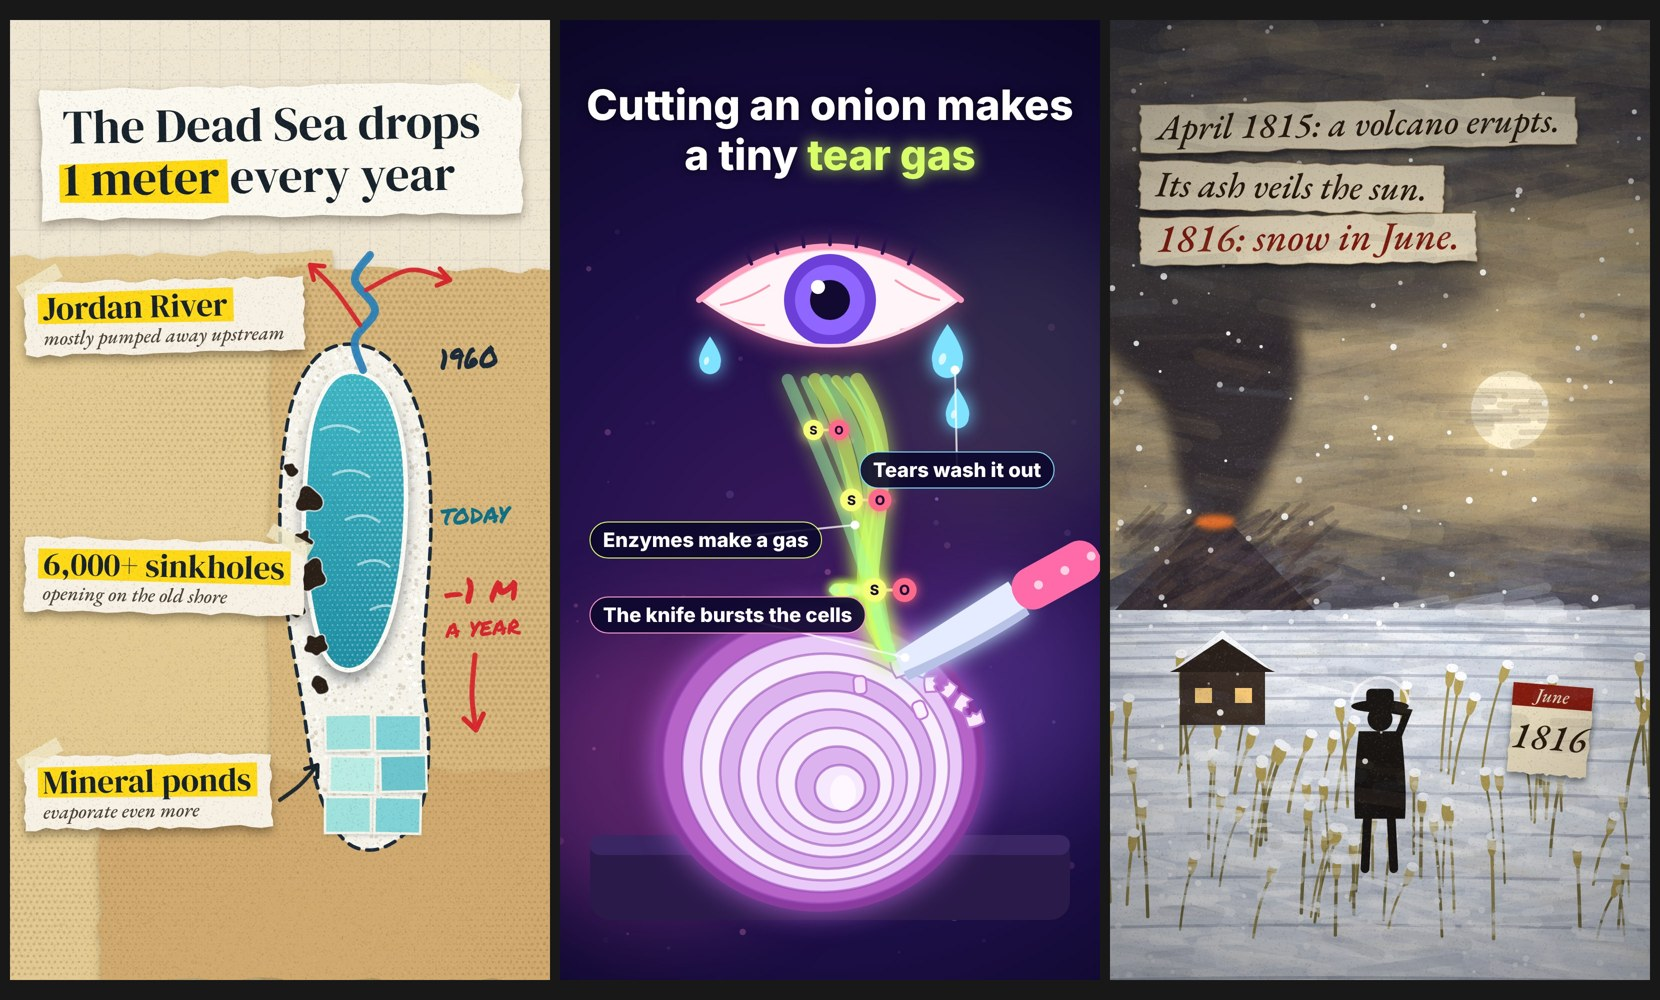
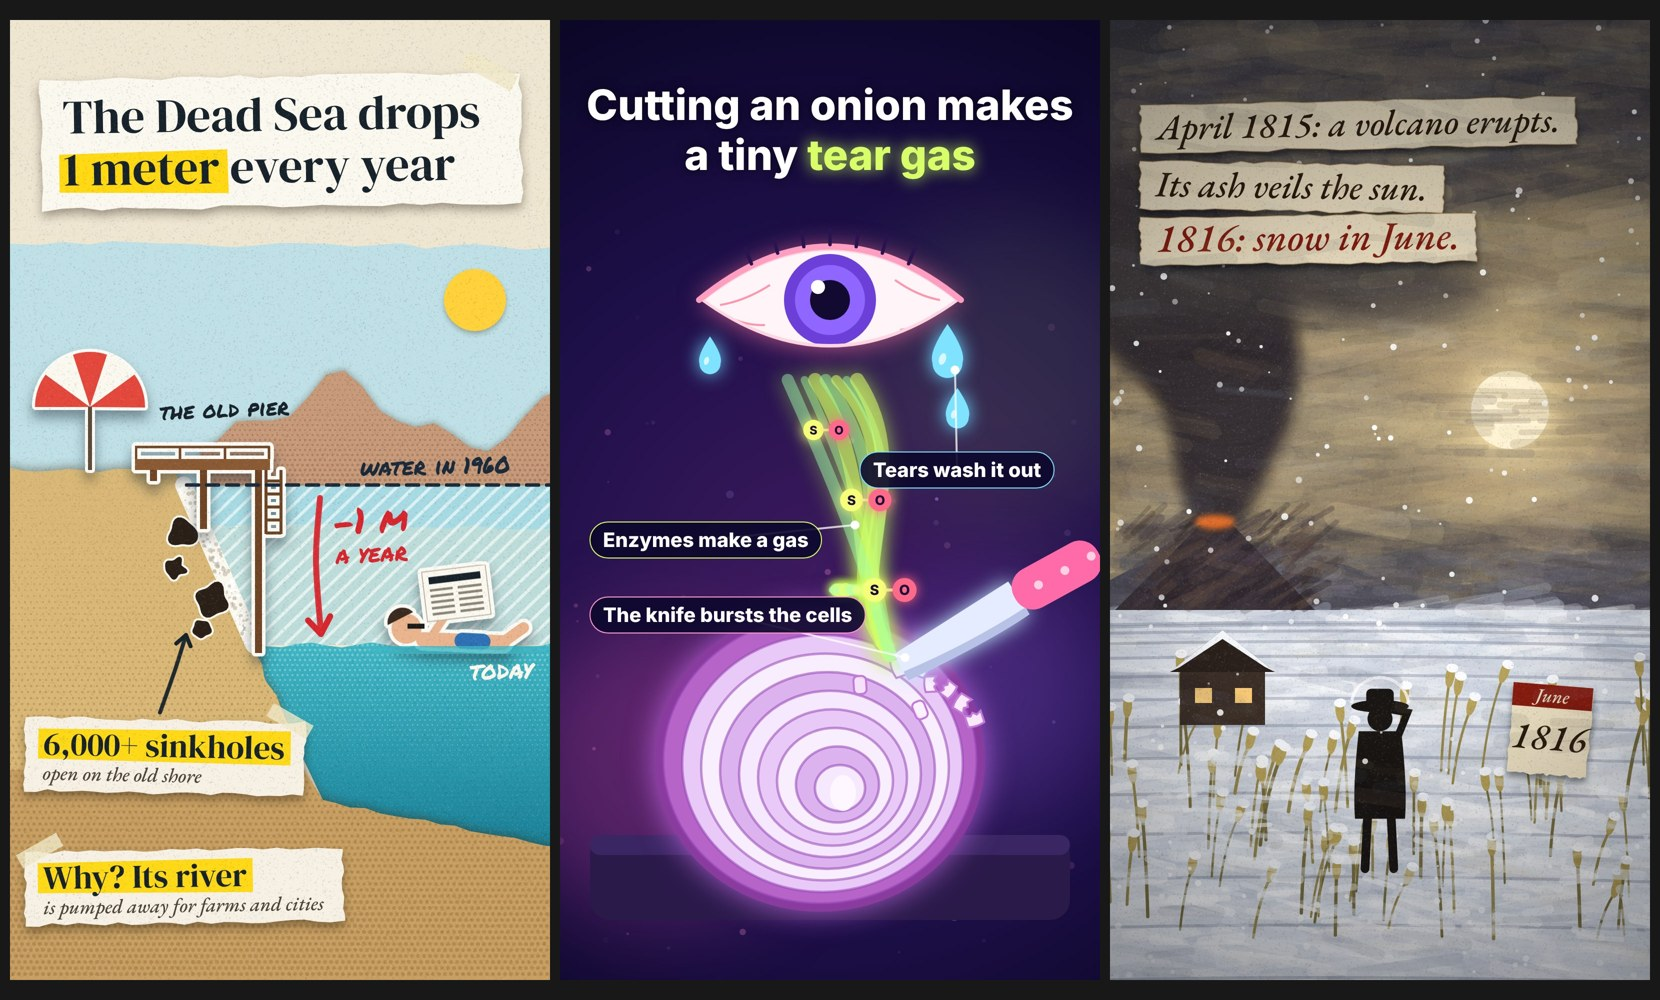
styles37: Dead Sea concept v2 (side view: old pier, 1960 water line, floating reader)
Claude-Session: https://claude.ai/code/session_011mgQaLTG1TJGbDvcfpY3ZX

Changed region(s): [[0.0, 0.062, 0.338, 0.992]]

diff --git a/hf/videos/styles37/concept/paper_deadsea.html b/hf/videos/styles37/concept/paper_deadsea.html
@@ -3,51 +3,72 @@
 @font-face{font-family:'EB Garamond';font-weight:500;font-style:italic;src:url(eb-garamond-latin-500-italic.woff2)}
 @font-face{font-family:'Permanent Marker';src:url(permanent-marker-latin-400-normal.woff2)}
 html,body{margin:0;background:#000}canvas{display:block}</style><script src="common.js"></script></head><body><canvas id="c" width="1080" height="1920"></canvas><script id="main" type="text/plain">
-// styles37 concept: /paper-collage why the Dead Sea is disappearing (Vox-like paper collage look of styles19/28/33; own map drawing,
-// simplified shape, no copied map). Facts (USGS/EcoPeace/GSI, BBC, Britannica): the surface drops about 1 m a year; most of the
-// Jordan River's water is taken upstream for farms and cities; mineral evaporation ponds in the south basin add to the loss;
-// thousands of sinkholes (6,000+) have opened along the retreating shore. Shapes are schematic.
+// styles37 concept v2: /paper-collage why the Dead Sea is disappearing. SIDE VIEW so it reads at first glance (Jan: the map was not
+// clear): a floating bather with a newspaper (the Dead Sea icon), a beach pier left high and dry, the 1960 water line far above today's.
+// Facts (USGS/EcoPeace/GSI, BBC, Britannica): the surface drops about 1 m a year; most of the Jordan River's water is taken upstream
+// for farms and cities; 6,000+ sinkholes have opened on the exposed shore. Schematic, own drawing.
 const g=document.getElementById('c').getContext('2d'), MK="'Permanent Marker',cursive";
-const DX=140;
-const TODAY=[[520,700],[600,720],[640,820],[650,950],[640,1100],[610,1230],[560,1300],[500,1290],[470,1200],[450,1050],[455,900],[470,780]].map(([x,y])=>[x+DX,y]);
-const OLD=[[500,640],[620,660],[690,800],[705,980],[695,1150],[682,1300],[702,1450],[684,1600],[600,1668],[520,1648],[466,1520],[448,1380],[418,1220],[398,1050],[402,880],[428,730]].map(([x,y])=>[x+DX,y]);
-function smooth(p,pts){const n=pts.length;p.beginPath();const m=(a,b)=>[(a[0]+b[0])/2,(a[1]+b[1])/2];let s=m(pts[n-1],pts[0]);p.moveTo(s[0],s[1]);for(let i=0;i<n;i++){const q=m(pts[i],pts[(i+1)%n]);p.quadraticCurveTo(pts[i][0],pts[i][1],q[0],q[1]);}p.closePath();}
+const BANK=900, OLD=930, NOW=1250, SX0=330, SX1=620, SY1=1560; // bank top, old level, today's level, slope
+const slopeX=(y)=>SX0+(SX1-SX0)*(y-BANK)/(SY1-BANK);
 const paper=off(1080,1920,(p,w,h)=>{p.fillStyle='#efe6d2';p.fillRect(0,0,w,h);const R=R0(4);
   for(let i=0;i<9000;i++){p.strokeStyle='rgba(120,95,60,'+(R()*.08)+')';p.lineWidth=1;const x=R()*w,y=R()*h,a=R()*6.28,l=4+R()*14;p.beginPath();p.moveTo(x,y);p.lineTo(x+Math.cos(a)*l,y+Math.sin(a)*l);p.stroke();}
-  p.strokeStyle='rgba(90,120,150,.10)';p.lineWidth=2;for(let x=0;x<w;x+=60){p.beginPath();p.moveTo(x,0);p.lineTo(x,h);p.stroke();}for(let y=0;y<h;y+=60){p.beginPath();p.moveTo(0,y);p.lineTo(w,y);p.stroke();}});
-// desert land: big torn paper pieces with halftone shading
-const land=off(1080,1920,(p)=>{[[ -40,470,700,1500,'#e2c991',11,-0.02],[520,500,620,1460,'#d7b77c',12,0.015],[180,1500,940,420,'#cfa96e',13,0]].forEach(([x,y,w,h,c,s,r])=>{p.save();p.translate(x+w/2,y+h/2);p.rotate(r);tornPath(p,-w/2,-h/2,w,h,s,14);p.fillStyle=c;p.shadowColor='rgba(60,40,20,.3)';p.shadowBlur=16;p.shadowOffsetY=8;p.fill();p.restore();});
-  p.save();p.globalCompositeOperation='source-atop';for(let y=480;y<1920;y+=12)for(let x=(y/12%2)*6;x<1080;x+=12){const d=CL(0.5+0.5*Math.sin(x*.004+y*.003)*Math.cos(y*.005));p.fillStyle='rgba(120,80,40,.22)';p.beginPath();p.arc(x,y,0.6+3*d,0,7);p.fill();}p.restore();});
-// today's sea: turquoise cut-out with halftone + sticker edge
-const SEA=(()=>{const c=off(1080,1920,(p)=>{smooth(p,TODAY);const gr=p.createLinearGradient(0,700,0,1300);gr.addColorStop(0,'#3fb6c4');gr.addColorStop(1,'#1f8ea3');p.fillStyle=gr;p.fill();
-  p.save();smooth(p,TODAY);p.clip();for(let y=690;y<1310;y+=10)for(let x=(y/10%2)*5+580;x<800;x+=10){p.fillStyle='rgba(255,255,255,.35)';p.beginPath();p.arc(x,y,1.2+1.8*CL((x-600)/200),0,7);p.fill();}
-  p.strokeStyle='rgba(255,255,255,.55)';p.lineWidth=5;for(let i=0;i<5;i++){p.beginPath();p.moveTo(620+i*25,820+i*90);p.quadraticCurveTo(660+i*25,800+i*90,700+i*20,825+i*90);p.stroke();}p.restore();});return sticker(c,9);})();
-// salt crust ring between the old and new shore
-const SALT=off(1080,1920,(p)=>{smooth(p,OLD);p.fillStyle='#f6f3ea';p.fill();const R=R0(9);p.save();smooth(p,OLD);p.clip();for(let i=0;i<2600;i++){p.fillStyle=R()<.5?'rgba(200,190,170,.5)':'rgba(255,255,255,.8)';p.beginPath();p.arc(500+R()*400,630+R()*1050,1+R()*4,0,7);p.fill();}p.restore();});
-function ponds(){g.save();const cols=['#9fe1dc','#7fd3d6','#b8ece4','#6cc4cc'];let k=0;for(let r=0;r<3;r++)for(let c=0;c<2;c++){const x=630+c*100+(r%2)*10,y=1390+r*82;g.save();g.translate(x,y);g.rotate((k%3-1)*0.02);g.fillStyle=cols[k%4];g.shadowColor='rgba(40,60,70,.3)';g.shadowBlur=8;g.shadowOffsetY=4;g.fillRect(0,0,92,72);g.shadowColor='transparent';g.strokeStyle='#f6f3ea';g.lineWidth=5;g.strokeRect(0,0,92,72);g.restore();k++;}g.restore();}
-function sinkholes(){const P=[[598,960,26],[586,1040,18],[602,1110,30],[575,1180,16],[612,1250,22],[562,900,14],[620,1330,18]];P.forEach(([x,y,r],i)=>{g.save();g.fillStyle='#2b2018';g.beginPath();blobPath(g,x,y,r,i+3,0.15,30,0);g.fill();g.strokeStyle='rgba(255,255,255,.7)';g.lineWidth=3;g.stroke();g.restore();});}
-function title(){g.save();g.translate(60,140);g.rotate(-0.015);const W=960,H=260;tornPath(g,0,0,W,H,21,8);g.fillStyle='#fbf8f0';g.shadowColor='rgba(30,20,10,.4)';g.shadowBlur=20;g.shadowOffsetY=10;g.fill();g.shadowColor='transparent';
-  g.fillStyle='#17222b';g.font='400 96px '+DISP;g.fillText('The Dead Sea drops',44,108);
-  g.font='400 96px '+DISP;const a='1 meter';const wa=g.measureText(a).width;g.fillStyle='rgba(255,214,0,.92)';g.beginPath();g.moveTo(36,150);g.lineTo(60+wa,144);g.lineTo(62+wa,232);g.lineTo(36,226);g.closePath();g.fill();
-  g.fillStyle='#17222b';g.fillText(a+' every year',44,212);
-  g.fillStyle='rgba(240,232,200,.85)';g.save();g.translate(W-60,-6);g.rotate(0.5);g.fillRect(-56,-16,112,34);g.restore();g.restore();}
+  // sky scrap
+  p.save();p.translate(540,720);p.rotate(0.008);tornPath(p,-580,-270,1160,560,5,12);p.fillStyle='#bfe0e6';p.fill();p.restore();
+  // sun sticker
+  p.fillStyle='#ffd23c';p.shadowColor='rgba(60,40,20,.3)';p.shadowBlur=10;p.shadowOffsetY=6;p.beginPath();p.arc(930,560,62,0,7);p.fill();p.shadowColor='transparent';
+  // far mountains (torn, halftone)
+  const m=off(1080,400,(q)=>{q.beginPath();q.moveTo(380,292);const R2=R0(12);for(let x=380;x<=1100;x+=36){q.lineTo(x,150-Math.sin(x*.012)*60-Math.sin(x*.031)*26+(R2()-.5)*14);}q.lineTo(1100,292);q.closePath();q.fillStyle='#c79a7a';q.fill();
+    q.globalCompositeOperation='source-atop';for(let y=0;y<400;y+=10)for(let x=(y/10%2)*5;x<1080;x+=10){q.fillStyle='rgba(90,50,40,.25)';q.beginPath();q.arc(x,y,0.6+2.4*CL(y/300),0,7);q.fill();}});
+  p.shadowColor='rgba(60,40,20,.3)';p.shadowBlur=12;p.shadowOffsetY=-4;p.drawImage(m,0,640);p.shadowColor='transparent';});
+// lost water (1960 -> today): pale striped paper
+const LOST=off(1080,1920,(p)=>{p.beginPath();p.moveTo(slopeX(OLD),OLD);p.lineTo(1080,OLD);p.lineTo(1080,NOW);p.lineTo(slopeX(NOW),NOW);p.closePath();p.fillStyle='rgba(150,214,224,.55)';p.fill();p.save();p.clip();p.strokeStyle='rgba(255,255,255,.6)';p.lineWidth=6;for(let x=200;x<1500;x+=34){p.beginPath();p.moveTo(x,OLD);p.lineTo(x-330,NOW);p.stroke();}p.restore();});
+// today's water: turquoise cut-out
+const WATER=off(1080,1920,(p)=>{p.beginPath();p.moveTo(slopeX(NOW)-6,NOW);for(let x=slopeX(NOW);x<=1090;x+=30)p.lineTo(x,NOW+Math.sin(x*.05)*5);p.lineTo(1090,1700);p.lineTo(SX1+20,SY1+30);p.closePath();const gr=p.createLinearGradient(0,NOW,0,1700);gr.addColorStop(0,'#3fb6c4');gr.addColorStop(1,'#167a92');p.fillStyle=gr;p.fill();
+  p.save();p.clip();for(let y=NOW;y<1700;y+=10)for(let x=(y/10%2)*5+460;x<1080;x+=10){p.fillStyle='rgba(255,255,255,.3)';p.beginPath();p.arc(x,y,0.8+2.2*CL((1500-y)/300),0,7);p.fill();}p.restore();});
+// land: bank + slope + sea floor, torn kraft paper with halftone
+const LAND=off(1080,1920,(p)=>{const R=R0(21);p.beginPath();p.moveTo(-20,BANK);for(let x=0;x<=SX0;x+=30)p.lineTo(x,BANK+(R()-.5)*8);
+  for(let i=1;i<=22;i++){const y=BANK+(SY1-BANK)*i/22;p.lineTo(slopeX(y)+(R()-.5)*12,y);}
+  for(let x=SX1+30;x<=1100;x+=30)p.lineTo(x,SY1+(x-SX1)*0.2+(R()-.5)*8);p.lineTo(1100,1940);p.lineTo(-20,1940);p.closePath();
+  p.fillStyle='#d9b877';p.shadowColor='rgba(60,40,20,.4)';p.shadowBlur=18;p.shadowOffsetY=-6;p.fill();p.shadowColor='transparent';
+  p.save();p.clip();p.fillStyle='#c79f62';p.fillRect(-20,1500,1120,440);for(let y=BANK;y<1920;y+=12)for(let x=(y/12%2)*6;x<1080;x+=12){const d=CL((y-BANK)/900);p.fillStyle='rgba(110,70,35,.24)';p.beginPath();p.arc(x,y,0.8+3*d,0,7);p.fill();}p.restore();});
+// salt crust on the exposed slope
+function salt(){g.save();g.strokeStyle='#fbf8f0';g.lineWidth=34;g.lineCap='round';g.beginPath();g.moveTo(slopeX(OLD)+4,OLD);g.lineTo(slopeX(NOW)+4,NOW);g.stroke();const R=R0(9);for(let i=0;i<160;i++){const y=OLD+R()*(NOW-OLD),x=slopeX(y)+4+(R()-.5)*30;g.fillStyle=R()<.5?'rgba(190,180,160,.6)':'#fff';g.beginPath();g.arc(x,y,1.5+R()*3.5,0,7);g.fill();}g.restore();}
+// the pier that used to reach the water, now hanging over dry ground
+const PIER=sticker(off(300,470,(p)=>{p.fillStyle='#8a5a34';p.fillRect(0,60,270,22);p.fillStyle='#6f4526';[[30,22],[130,118],[240,366]].forEach(([x,l])=>{p.fillRect(x,82,14,l);});
+  p.strokeStyle='#6f4526';p.lineWidth=5;p.beginPath();p.moveTo(0,36);p.lineTo(270,36);p.stroke();[2,90,180,268].forEach(x=>{p.beginPath();p.moveTo(x,36);p.lineTo(x,60);p.stroke();});
+  p.lineWidth=6;p.beginPath();p.moveTo(262,82);p.lineTo(262,210);p.moveTo(292,82);p.lineTo(292,210);for(let y=104;y<210;y+=26){p.moveTo(262,y);p.lineTo(292,y);}p.stroke();}),7);
+const UMB=sticker(off(240,250,(p)=>{p.strokeStyle='#5a4a3a';p.lineWidth=8;p.beginPath();p.moveTo(120,110);p.lineTo(120,246);p.stroke();
+  for(let i=0;i<5;i++){p.fillStyle=i%2?'#fbf8f0':'#e4483c';p.beginPath();p.moveTo(120,120);p.arc(120,120,110,Math.PI*(1+i*.2),Math.PI*(1+(i+1)*.2)+0.01);p.closePath();p.fill();}}),6);
+// the floating reader
+const FLOAT=sticker(off(330,190,(p)=>{p.lineCap='round';
+  p.strokeStyle='#e9b48e';p.lineWidth=30;p.beginPath();p.moveTo(92,150);p.lineTo(250,156);p.stroke(); // torso+legs
+  p.strokeStyle='#2f6fb3';p.lineWidth=32;p.beginPath();p.moveTo(170,152);p.lineTo(210,154);p.stroke(); // shorts
+  p.strokeStyle='#e9b48e';p.lineWidth=22;p.beginPath();p.moveTo(250,156);p.lineTo(292,126);p.stroke(); // feet up
+  p.fillStyle='#e9b48e';p.beginPath();p.arc(58,128,30,0,7);p.fill();p.fillStyle='#3a2a20';p.beginPath();p.arc(50,116,30,Math.PI*.95,Math.PI*1.75);p.fill(); // head + hair
+  p.fillStyle='#1b1b1b';p.fillRect(60,118,34,10); // sunglasses
+  p.strokeStyle='#e9b48e';p.lineWidth=16;p.beginPath();p.moveTo(110,140);p.lineTo(140,96);p.stroke();
+  p.save();p.translate(150,60);p.rotate(-0.12);p.fillStyle='#fbf8f0';p.fillRect(-56,-52,128,100);p.strokeStyle='#bdb5a4';p.lineWidth=2;p.strokeRect(-56,-52,128,100);p.fillStyle='#17222b';p.fillRect(-44,-40,104,14);p.fillStyle='#8b8578';for(let i=0;i<5;i++){p.fillRect(-44,-16+i*12,46,5);p.fillRect(12,-16+i*12,48,5);}p.restore();}),7);
+function sinkholes(){[[0.30,30],[0.52,22],[0.72,34],[0.9,20]].forEach(([u,r],i)=>{const y=OLD+(NOW-OLD)*u,x=slopeX(y)-40-(i%2)*46;g.save();blobPath(g,x,y,r,i+3,0.14,30,0);g.fillStyle='#2b2018';g.fill();g.strokeStyle='#fbf8f0';g.lineWidth=4;g.stroke();g.restore();});}
+function title(){g.save();g.translate(60,120);g.rotate(-0.015);const W=960,H=260;tornPath(g,0,0,W,H,21,8);g.fillStyle='#fbf8f0';g.shadowColor='rgba(30,20,10,.4)';g.shadowBlur=20;g.shadowOffsetY=10;g.fill();g.shadowColor='transparent';
+  g.fillStyle='#17222b';g.font='400 96px '+DISP;g.fillText('The Dead Sea drops',44,108);const a='1 meter';const wa=g.measureText(a).width;g.fillStyle='rgba(255,214,0,.92)';g.beginPath();g.moveTo(36,150);g.lineTo(60+wa,144);g.lineTo(62+wa,232);g.lineTo(36,226);g.closePath();g.fill();
+  g.fillStyle='#17222b';g.fillText(a+' every year',44,212);g.fillStyle='rgba(240,232,200,.85)';g.save();g.translate(W-60,-6);g.rotate(0.5);g.fillRect(-56,-16,112,34);g.restore();g.restore();}
 function hand(t,x,y,col,size,rot){g.save();g.translate(x,y);g.rotate(rot||0);g.font=(size||52)+'px '+MK;g.fillStyle=col;g.fillText(t,0,0);g.restore();}
-function draw(lt){g.drawImage(paper,0,0);g.drawImage(land,0,0);g.drawImage(SALT,0,0);
-  // 1960 shoreline
-  g.save();g.setLineDash([22,16]);g.strokeStyle='#1b2a3a';g.lineWidth=7;g.lineCap='round';smooth(g,OLD);g.stroke();g.restore();
-  ponds();g.drawImage(SEA,-SEA.ox,-SEA.oy);sinkholes();
-  // Jordan River coming in from the north, mostly pumped away
-  marker(g,[[720,470],[690,520],[730,580],[690,640],[706,700]],1,16,'#2a7fb8');
-  [[[712,540],[800,500],[880,520]],[[700,610],[650,540],[600,490]]].forEach((pts)=>{const [x,y,a]=marker(g,pts,1,9,'#d7262e');arrowHead(g,x,y,a,26,9,'#d7262e');});
-  title();
-  hand('1960',860,700,'#1b2a3a',58,-0.05);hand('today',862,1010,'#0f6f86',54,-0.04);
-  // big red "-1 m / year" call-out with down arrow
-  hand('−1 m',870,1170,'#d7262e',72,-0.06);hand('a year',872,1236,'#d7262e',50,-0.06);
-  {const [x,y,a]=marker(g,[[930,1270],[924,1350],[932,1420]],1,10,'#d7262e');arrowHead(g,x,y,a,30,10,'#d7262e');}
-  paperTag(g,10,0,30,520,-0.025,'Jordan River','mostly pumped away upstream',31,0);
-  paperTag(g,10,0,30,1040,0.02,'6,000+ sinkholes','opening on the old shore',32,1);
-  paperTag(g,10,0,30,1470,-0.015,'Mineral ponds','evaporate even more',33,0);
-  {const [x,y,a]=marker(g,[[540,1560],[580,1530],[615,1490]],1,8,'#17222b');arrowHead(g,x,y,a,22,8,'#17222b');}
-  g.drawImage(GRAIN,0,0);}
+function draw(lt){g.drawImage(paper,0,0);g.drawImage(LOST,0,0);g.drawImage(WATER,0,0);
+  g.drawImage(FLOAT,735-FLOAT.ox,NOW-162-FLOAT.oy+Math.sin(lt*1.4)*4);
+  // water strip in front of the floater's back
+  g.fillStyle='rgba(63,182,196,.8)';g.fillRect(720,NOW+2,360,16);
+  g.drawImage(LAND,0,0);salt();sinkholes();
+  g.drawImage(PIER,250-PIER.ox,BANK-82-PIER.oy);g.drawImage(UMB,40-UMB.ox,BANK-246-UMB.oy);
+  // 1960 water line
+  g.save();g.setLineDash([24,16]);g.strokeStyle='#1b2a3a';g.lineWidth=7;g.lineCap='round';g.beginPath();g.moveTo(slopeX(OLD)+10,OLD);g.lineTo(1080,OLD);g.stroke();g.restore();
+  hand('water in 1960',700,OLD-18,'#1b2a3a',46,-0.02);hand('today',920,NOW+70,'#fbf8f0',50,-0.03);
+  // big red drop arrow
+  {const [x,y,a]=marker(g,[[620,OLD+26],[612,1080],[622,NOW-22]],1,12,'#d7262e');arrowHead(g,x,y,a,34,12,'#d7262e');}
+  hand('−1 m',650,1030,'#d7262e',72,-0.05);hand('a year',652,1088,'#d7262e',48,-0.05);
+  hand('the old pier',300,800,'#17222b',44,-0.04);
+  paperTag(g,10,0,30,1400,0.02,'6,000+ sinkholes','open on the old shore',32,1);
+  {const [x,y,a]=marker(g,[[300,1385],[330,1300],[352,1230]],1,8,'#17222b');arrowHead(g,x,y,a,22,8,'#17222b');}
+  paperTag(g,10,0,30,1660,-0.015,'Why? Its river','is pumped away for farms and cities',33,0);
+  title();g.drawImage(GRAIN,0,0);}
 window.DUR=6;window.draw=draw;draw(2);document.title='ok';
 </script><script>Promise.all([document.fonts.load("400 40px 'DM Serif Display'"),document.fonts.load("italic 500 30px 'EB Garamond'"),document.fonts.load("40px 'Permanent Marker'")]).then(()=>{const s=document.createElement('script');s.textContent=document.getElementById('main').textContent;document.body.appendChild(s);});</script></body></html>
